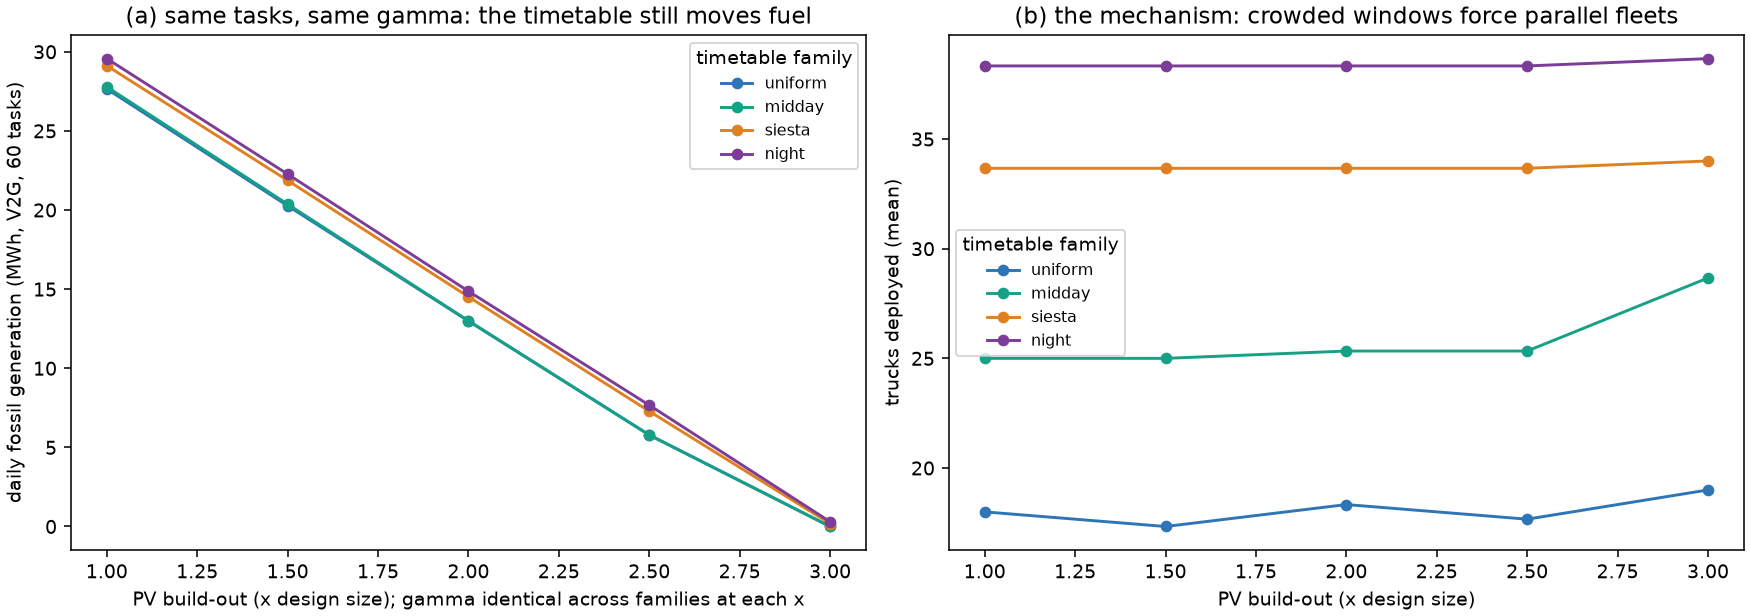
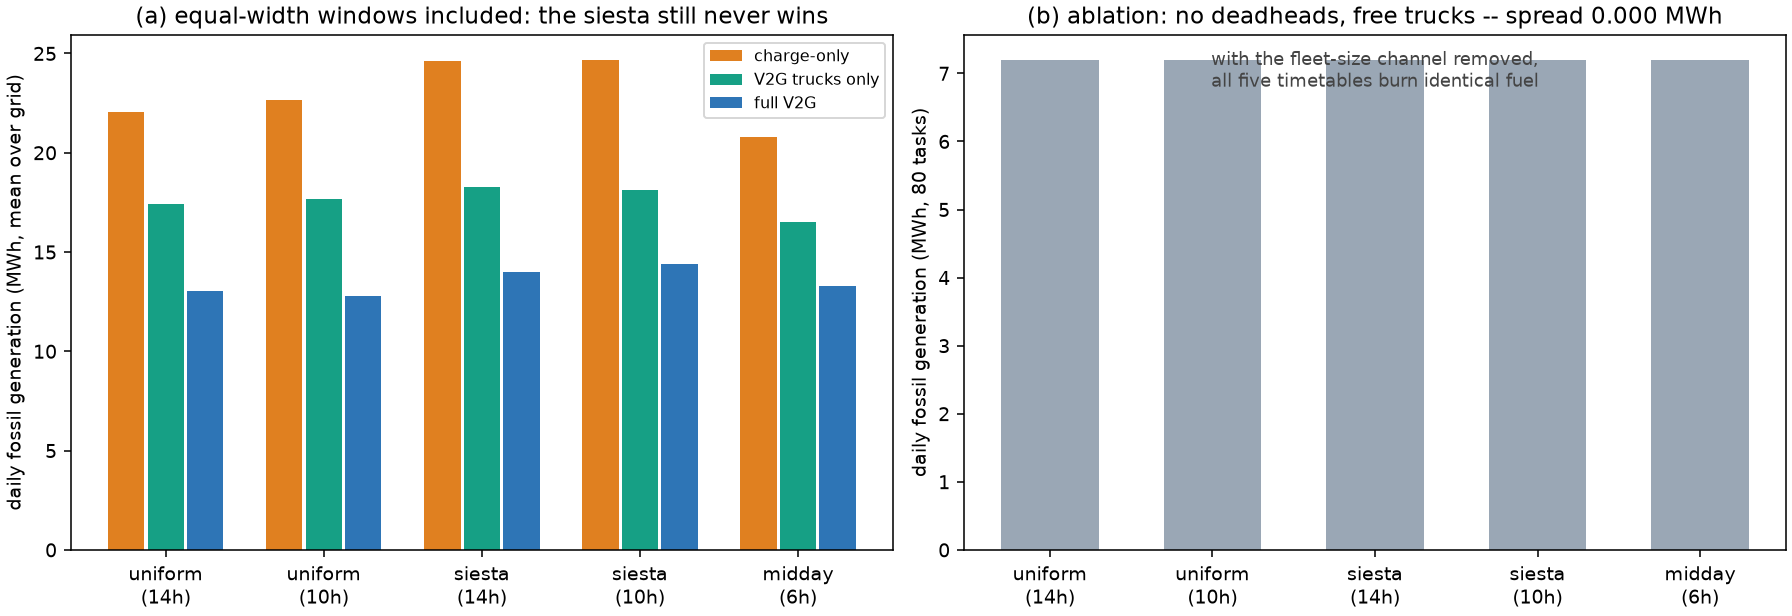
gallery: six new figures from overnight9-10 (SCHED3+THEORY verdict, fixed-asset outage ladder, fuel-floor endurance, four-climate year, fixed-network concavity, committed-schedule stochastic study)

diff --git a/section8_gallery.py b/section8_gallery.py
@@ -1265,46 +1265,255 @@ if pk17:
         "stationary storage are direct substitutes, so the trend toward larger EV "
         "packs mechanically shrinks the dedicated-storage capex a microgrid needs.")
 
-# %% Figure 8.18 -- SCHED: retiming at fixed gamma (the controlled counterexample)
-sc18 = []
-for _p in _glob.glob(os.path.join(ARX, "overnight8_sched_s*.json")):
-    sc18 += json.load(open(_p))
-if sc18:
-    FAMS18 = ["uniform", "midday", "siesta", "night"]
-    FC18 = {"uniform": "#2E75B6", "midday": "#16a085", "siesta": "#e08020", "night": "#7d3c98"}
-    fig, ax = plt.subplots(1, 2, figsize=(12.5, 4.4), constrained_layout=True)
-    pvs18 = sorted({r["pv"] for r in sc18})
-    for f in FAMS18:
-        fu, tk = [], []
-        for pv in pvs18:
-            v = [r for r in sc18 if r["sched"] == f and r["pv"] == pv and r["n_tasks"] == 60
-                 and r["scenario"] == "v2g" and "total" in r]
-            fu.append(float(np.mean([r["g_units"] / 10 for r in v])) if v else np.nan)
-            tk.append(float(np.mean([r["trucks"] for r in v])) if v else np.nan)
-        ax[0].plot(pvs18, fu, "-o", ms=5, color=FC18[f], label=f)
-        ax[1].plot(pvs18, tk, "-o", ms=5, color=FC18[f], label=f)
-    ax[0].set_xlabel("PV build-out (x design size); gamma identical across families at each x")
-    ax[0].set_ylabel("daily fossil generation (MWh, V2G, 60 tasks)")
-    ax[0].set_title("(a) same tasks, same gamma: the timetable still moves fuel")
-    ax[0].legend(fontsize=8, title="timetable family")
-    ax[1].set_xlabel("PV build-out (x design size)")
-    ax[1].set_ylabel("trucks deployed (mean)")
-    ax[1].set_title("(b) the mechanism: crowded windows force parallel fleets")
-    ax[1].legend(fontsize=8, title="timetable family")
+# %% Figure 8.18 -- SCHED3 + THEORY: the retiming verdict, confound-free
+s318 = []
+for _p in _glob.glob(os.path.join(ARX, "overnight10_sched3_s*.json")):
+    s318 += json.load(open(_p))
+th18 = []
+for _p in _glob.glob(os.path.join(ARX, "overnight10_theory_s*.json")):
+    th18 += json.load(open(_p))
+if s318:
+    FAMS18 = ["uniform14", "uniform10", "siesta14", "siesta10", "midday6"]
+    FLAB18 = {"uniform14": "uniform\n(14h)", "uniform10": "uniform\n(10h)",
+              "siesta14": "siesta\n(14h)", "siesta10": "siesta\n(10h)",
+              "midday6": "midday\n(6h)"}
+    SC18 = [("solar", "#e08020", "charge-only"), ("v2g_fleet", "#16a085", "V2G trucks only"),
+            ("v2g", "#2E75B6", "full V2G")]
+    fig, ax = plt.subplots(1, 2, figsize=(12.8, 4.4), constrained_layout=True)
+    W = 0.25
+    for k, (scen, c, lab) in enumerate(SC18):
+        ys = []
+        for f in FAMS18:
+            v = [r["g_units"] / 10 for r in s318 if r["fam"] == f and not np.isfinite(r["kcap"])
+                 and r["scenario"] == scen and r.get("feasible")]
+            ys.append(float(np.mean(v)) if v else np.nan)
+        ax[0].bar([i + (k - 1) * W for i in range(len(FAMS18))], ys, W * 0.92, color=c, label=lab)
+    ax[0].set_xticks(range(len(FAMS18))); ax[0].set_xticklabels([FLAB18[f] for f in FAMS18])
+    ax[0].set_ylabel("daily fossil generation (MWh, mean over grid)")
+    ax[0].set_title("(a) equal-width windows included: the siesta still never wins")
+    ax[0].legend(fontsize=8)
+    if th18:
+        ys = [float(np.mean([r["g_units"] / 10 for r in th18 if r["fam"] == f and r["n_tasks"] == 80]))
+              for f in FAMS18]
+        ax[1].bar(range(len(FAMS18)), ys, 0.6, color="#9aa7b5")
+        ax[1].set_xticks(range(len(FAMS18))); ax[1].set_xticklabels([FLAB18[f] for f in FAMS18])
+        ax[1].set_ylabel("daily fossil generation (MWh, 80 tasks)")
+        sp = max(ys) - min(ys)
+        ax[1].set_title(f"(b) ablation: no deadheads, free trucks -- spread {sp:.3f} MWh")
+        ax[1].text(0.5, 0.9, "with the fleet-size channel removed,\nall five timetables burn identical fuel",
+                   ha="center", transform=ax[1].transAxes, fontsize=9, color="#444")
     finish(fig, "fig_8_18_sched.png")
     GALLERY.append("\n![fig 8.18](fig_8_18_sched.png)\n")
     caption("Figure 8.18",
-        "Retiming at fixed gamma: for each cell, one task set (locations and "
-        "energies fixed) is timetabled four ways -- uniformly over the working "
-        "day, concentrated outside the surplus window (siesta), at night, or "
-        "INSIDE the surplus window (midday) -- so demand, solar, traction, and "
-        "hence gamma are identical across families by construction. (a) Fuel "
-        "still spreads by 5-15% at mid solar: scheduling is a real lever that "
-        "gamma cannot see. Direction: under the cyclic model with storage "
-        "available, the folk prescription of freeing the midday for charging "
-        "INVERTS -- uniform beats siesta at every solar level, because storage "
-        "already captures the surplus while window-crowding roughly doubles the "
-        "fleet (b) and pushes recharging against the demand peaks.")
+        "The retiming verdict with the width confound removed. (a) Five timetable "
+        "families, including a 14-start-hour siesta matching uniform's width, at "
+        "uncapped charging: the siesta never has the lowest fuel in any regime, and "
+        "for storage-poor fleets (charge-only, trucks-only) the winner is the "
+        "midday-concentrated family, the opposite of the folk rule. (b) The "
+        "mechanism, isolated: zeroing deadhead energy and truck cost collapses the "
+        "spread across all five families to numerically zero, so with storage "
+        "available the energy layer is timetable-invariant and every scheduling "
+        "effect flows through fleet size and its deadhead overhead.")
+
+# %% Figure 8.19 -- OUTAGE2: fixed-asset contingency ladder
+o19 = []
+for _p in _glob.glob(os.path.join(ARX, "overnight9_outage2_s*.json")):
+    o19 += json.load(open(_p))
+if o19:
+    DER19 = [1.0, 0.667, 0.333, 0.0]
+    fig, ax = plt.subplots(1, 2, figsize=(12.5, 4.3), constrained_layout=True)
+    for scen, c, lab in (("solar", "#e08020", "charge-only"),
+                         ("v2g_fleet", "#16a085", "V2G trucks only"),
+                         ("v2g", "#2E75B6", "full V2G")):
+        ys = []
+        for d in DER19:
+            rows = [r for r in o19 if abs(r["derate"] - d) < .01 and r["scenario"] == scen]
+            ys.append(100 * sum(1 for r in rows if r.get("feasible")) / max(len(rows), 1))
+        ax[0].plot(range(len(DER19)), ys, "-o", ms=6, color=c, label=lab)
+    ax[0].set_xticks(range(len(DER19)))
+    ax[0].set_xticklabels(["no outage", "1 of 3 lost", "2 of 3 lost", "total loss"])
+    ax[0].set_ylabel("% of instances with a feasible schedule")
+    ax[0].set_title("(a) evening generator outage, assets fixed at normal-day sizing")
+    ax[0].legend(fontsize=8)
+    xs, med, lo, hi = [], [], [], []
+    for d in DER19:
+        v = [100 * (r["total"] - r["stage1_total"]) / r["stage1_total"] for r in o19
+             if abs(r["derate"] - d) < .01 and r["scenario"] == "v2g"
+             and r.get("feasible") and r.get("stage1_total")]
+        if v:
+            xs.append(d); med.append(float(np.median(v)))
+            lo.append(float(np.percentile(v, 10))); hi.append(float(np.percentile(v, 90)))
+    ax[1].fill_between(range(len(xs)), lo, hi, color="#2E75B6", alpha=0.15)
+    ax[1].plot(range(len(xs)), med, "-o", ms=6, color="#2E75B6")
+    ax[1].set_xticks(range(len(xs)))
+    ax[1].set_xticklabels(["no outage", "1 of 3 lost", "2 of 3 lost", "total loss"][:len(xs)])
+    ax[1].set_ylabel("cost increase vs normal day (%, V2G, feasible instances)")
+    ax[1].set_title("(b) the surviving fleet pays almost nothing to ride it out")
+    finish(fig, "fig_8_19_outage2.png")
+    GALLERY.append("\n![fig 8.19](fig_8_19_outage2.png)\n")
+    caption("Figure 8.19",
+        "Fixed-asset contingency ladder: fleets are sized on the normal day (cap "
+        "1.5x the no-fleet peak), then assets are frozen and an evening generator "
+        "outage window (4 or 8 hours) derates capacity. (a) Charge-only and "
+        "trucks-only fleets fail in every instance at any derate; the full V2G "
+        "stack keeps 92% of instances running with one of three generators lost, "
+        "two thirds with two lost, and half through TOTAL loss of generation in "
+        "the window. (b) Where it survives, the re-dispatched day costs at most a "
+        "few percent more. A handful of no-outage cells read infeasible due to "
+        "integer time limits, not the model.")
+
+# %% Figure 8.20 -- ENDUR2: the fuel floor (fixed daily budget)
+e20d = []
+for _p in _glob.glob(os.path.join(ARX, "overnight9_endur_s*.json")):
+    e20d += json.load(open(_p))
+if e20d:
+    import collections as _cl20
+    idx20 = _cl20.defaultdict(list)
+    for r in e20d:
+        idx20[(r["scenario"], r["pv"], r["n_tasks"], r["seed"])].append(r)
+    fig, ax = plt.subplots(figsize=(8.2, 4.4), constrained_layout=True)
+    cells20 = [(1.5, 20), (1.5, 60), (2.5, 20), (2.5, 60)]
+    xt = [f"{pv}x solar\n{n} tasks" for pv, n in cells20]
+    for k, (pv, n) in enumerate(cells20):
+        fmins = [min([r["frac"] for r in idx20[("v2g", pv, n, sd)] if r.get("feasible")], default=np.nan)
+                 for sd in (0, 1, 2)]
+        v = float(np.nanmean(fmins))
+        if np.isfinite(v):
+            ax.bar(k - 0.17, v, 0.32, color="#2E75B6", label="full V2G" if k == 0 else None)
+        else:
+            ax.annotate("V2G > 1.0 too", (k - 0.17, 1.02), ha="center", fontsize=8, color="#2E75B6")
+        ax.bar(k + 0.17, 1.0, 0.32, color="#e08020", alpha=0.55,
+               label="charge-only (censored)" if k == 0 else None)
+        ax.annotate("> 1.0", (k + 0.17, 1.02), ha="center", fontsize=9, color="#b06010")
+    ax.axhline(1.0, ls=":", color="#888", lw=1)
+    ax.text(0.01, 1.01, "no-fleet baseline burn", fontsize=8, color="#666",
+            transform=ax.get_yaxis_transform())
+    ax.set_xticks(range(len(cells20))); ax.set_xticklabels(xt)
+    ax.set_ylabel("minimum feasible daily fuel (fraction of no-fleet baseline)")
+    ax.set_title("the fuel floor: V2G fleets run the base on less fuel than no fleet at all")
+    ax.legend(fontsize=8)
+    finish(fig, "fig_8_20_endurance.png")
+    GALLERY.append("\n![fig 8.20](fig_8_20_endurance.png)\n")
+    caption("Figure 8.20",
+        "Fuel endurance under a hard daily budget. Bars show the smallest budget, "
+        "as a fraction of the no-fleet baseline burn, at which any feasible "
+        "schedule exists. Charge-only fleets exceed 1.0 everywhere sampled: they "
+        "can only ADD load, so electrifying without bidirectionality strictly "
+        "shortens a fuel stock's endurance. Full V2G fleets run the entire base "
+        "on 80% of baseline at modest solar and on as little as 5% at 2.5x solar "
+        "with a small fleet: on a fixed stock, that is 20x the days of autonomy. "
+        "(At 1.5x solar with 60 tasks the fleet's own traction exceeds what the "
+        "surplus can cover, so V2G too needs more than baseline; endurance is an "
+        "endowment story, like everything else in this study.)")
+
+# %% Figure 8.21 -- WCITIES: same array, four skies
+w21 = []
+for _p in _glob.glob(os.path.join(ARX, "overnight9_wcities_s*.json")):
+    w21 += json.load(open(_p))
+if w21:
+    widx21 = {(r["city"], r["date"], r["pv"], r["scenario"]): r for r in w21 if r.get("feasible")}
+    CITIES21 = [("gulf_desert", "Gulf desert"), ("seoul", "Seoul"),
+                ("london", "London"), ("tromso", "Tromso")]
+    fig, ax = plt.subplots(figsize=(8.6, 4.5), constrained_layout=True)
+    for j, (pv, c) in enumerate(((2.0, "#2E75B6"), (3.0, "#16a085"))):
+        xs, mu, p10, p90 = [], [], [], []
+        for i, (key, lab) in enumerate(CITIES21):
+            days = {k[1] for k in widx21 if k[0] == key and k[2] == pv}
+            v = [100 * (widx21[(key, d, pv, "solar")]["total"] - widx21[(key, d, pv, "v2g")]["total"])
+                 / widx21[(key, d, pv, "solar")]["total"]
+                 for d in days if (key, d, pv, "solar") in widx21 and (key, d, pv, "v2g") in widx21]
+            xs.append(i + (j - 0.5) * 0.22); mu.append(np.mean(v))
+            p10.append(np.percentile(v, 10)); p90.append(np.percentile(v, 90))
+        ax.errorbar(xs, mu, yerr=[np.array(mu) - np.array(p10), np.array(p90) - np.array(mu)],
+                    fmt="o", ms=7, capsize=5, color=c, label=f"{pv:g}x panels")
+    ax.set_xticks(range(len(CITIES21))); ax.set_xticklabels([lab for _, lab in CITIES21])
+    ax.axhline(0, color="#888", lw=0.7)
+    ax.set_ylabel("V2G saving vs charge-only (% of daily cost)")
+    ax.set_title("same array, four skies: annual mean and 10th-90th percentile days (2023)")
+    ax.legend(fontsize=8)
+    finish(fig, "fig_8_21_wcities.png")
+    GALLERY.append("\n![fig 8.21](fig_8_21_wcities.png)\n")
+    caption("Figure 8.21",
+        "The 365-day study replayed on four real 2023 climates with the identical "
+        "array (each city's hourly ERA5 irradiance drives the same panels).  "
+        "Mean daily V2G value with 10th-90th percentile day bars: a Gulf desert "
+        "base earns firm value (45% mean, 15% on the 10th-percentile day at 2x; "
+        "75%/53% at 3x), Seoul earns substantial but seasonal value, London "
+        "roughly halves it, and a Tromso-latitude base earns little and nothing "
+        "for much of the year. Climate enters exactly as the endowment gamma "
+        "predicts, day by day.")
+
+# %% Figure 8.22 -- SATFIX2: Theorem 1's concavity under fixed assets
+sf22 = []
+for _p in _glob.glob(os.path.join(ARX, "overnight9_satfix2_s*.json")):
+    sf22 += json.load(open(_p))
+if sf22:
+    fig, ax = plt.subplots(figsize=(7.6, 4.4), constrained_layout=True)
+    for n, c in ((20, "#2E75B6"), (60, "#16a085")):
+        pvs = sorted({r["pv"] for r in sf22})
+        med = [float(np.median([r["g_units"] / 10 for r in sf22 if r["pv"] == pv
+                                and r["n_tasks"] == n and r["scenario"] == "v2g"
+                                and r.get("feasible")]) or np.nan) for pv in pvs]
+        ax.plot(pvs, med, "-o", ms=5, color=c, label=f"{n} tasks (assets fixed at 2.0x sizing)")
+    ax.set_xlabel("PV build-out (x design size)")
+    ax.set_ylabel("daily fossil generation (MWh, V2G)")
+    ax.set_title("fixed fleet and storage: absorption saturates, fuel bends")
+    ax.legend(fontsize=8)
+    finish(fig, "fig_8_22_satfix2.png")
+    GALLERY.append("\n![fig 8.22](fig_8_22_satfix2.png)\n")
+    caption("Figure 8.22",
+        "The diminishing-returns signature of Theorem 1, made visible by fixing "
+        "the residual network: fleets and batteries are sized once at 2.0x solar "
+        "and then held fixed while PV grows. Fuel falls at slope ~1 while the "
+        "fixed storage can still reach unserved deficit, then bends and "
+        "plateaus as the network's deliverability caps bind, exactly the "
+        "concave fixed-profile mechanism (with endogenous assets the optimizer "
+        "keeps buying batteries and the curve stays linear to the floor).")
+
+# %% Figure 8.23 -- STOCH: committing a schedule under a year of weather
+st23 = []
+for _p in _glob.glob(os.path.join(ARX, "overnight10_stoch_s*.json")):
+    st23 += json.load(open(_p))
+if st23:
+    fig, ax = plt.subplots(1, 2, figsize=(12.8, 4.4), constrained_layout=True)
+    for j, pv in enumerate((2.0, 3.0)):
+        ws = {r["date"]: r["total"] for r in st23 if r["kind"] == "ws" and r["pv"] == pv and r.get("feasible")}
+        wsm = float(np.mean(list(ws.values())))
+        cands = sorted({r["cand"] for r in st23 if r["kind"] == "eval"})
+        labs, vals = [], []
+        for cand in ["annual"] + [c for c in cands if c != "annual"]:
+            ev = {r["date"]: r["total"] for r in st23 if r["kind"] == "eval" and r["cand"] == cand
+                  and r["pv"] == pv and r.get("feasible")}
+            days = [d for d in ev if d in ws]
+            labs.append(cand); vals.append(float(np.mean([ev[d] for d in days])))
+        cols = ["#7d3c98" if l == "annual" else "#2E75B6" for l in labs]
+        k_best = int(np.argmin(vals)); cols[k_best] = "#16a085"
+        ax[j].bar(range(len(labs)), vals, color=cols)
+        ax[j].axhline(wsm, ls="--", color="#c0392b", lw=1.4,
+                      label=f"wait-and-see bound (${wsm:,.0f})")
+        ax[j].set_xticks(range(len(labs)))
+        ax[j].set_xticklabels([l.replace("m", "") if l != "annual" else "ann." for l in labs],
+                              fontsize=8)
+        ax[j].set_xlabel("design day used for the committed schedule (month)")
+        ax[j].set_ylabel("expected daily cost over 365 real days ($)")
+        ax[j].set_title(f"({'ab'[j]}) {pv:g}x panels: best commit +"
+                        f"{100 * (min(vals) - wsm) / wsm:.1f}% vs clairvoyance")
+        ax[j].legend(fontsize=8)
+    finish(fig, "fig_8_23_stoch.png")
+    GALLERY.append("\n![fig 8.23](fig_8_23_stoch.png)\n")
+    caption("Figure 8.23",
+        "Committing schedules under uncertain weather: the truck routes, their "
+        "charging plans, and the battery count are fixed on a candidate design "
+        "day; on each of the 365 real days only the stationary battery dispatch "
+        "and fossil generation re-optimize. Bars are expected daily cost per "
+        "design-day candidate (teal = best; purple = the annual-mean day); the "
+        "dashed line is the wait-and-see bound (full foresight, re-optimized "
+        "daily). The best committed schedule lands within 5.6% (2x) and 9.7% "
+        "(3x) of clairvoyance, so the deterministic backbone plus trivial "
+        "recourse is nearly optimal; but the CHOICE of design day carries real "
+        "risk: the annual-mean day gives +19%/+12%, and a winter design day up "
+        "to +48%/+98%. Summer-designed schedules commit generous storage and "
+        "charging plans that winter days simply scale back.")
 
 # %% Parameter provenance -- a source for every empirical anchor
 PROV = [

diff --git a/results/figures/GALLERY.md b/results/figures/GALLERY.md
@@ -163,7 +163,32 @@ Read top to bottom: this is the narrative order of the computational study.
 
 ![fig 8.18](fig_8_18_sched.png)
 
-**Figure 8.18.** Retiming at fixed gamma: for each cell, one task set (locations and energies fixed) is timetabled four ways -- uniformly over the working day, concentrated outside the surplus window (siesta), at night, or INSIDE the surplus window (midday) -- so demand, solar, traction, and hence gamma are identical across families by construction. (a) Fuel still spreads by 5-15% at mid solar: scheduling is a real lever that gamma cannot see. Direction: under the cyclic model with storage available, the folk prescription of freeing the midday for charging INVERTS -- uniform beats siesta at every solar level, because storage already captures the surplus while window-crowding roughly doubles the fleet (b) and pushes recharging against the demand peaks.
+**Figure 8.18.** The retiming verdict with the width confound removed. (a) Five timetable families, including a 14-start-hour siesta matching uniform's width, at uncapped charging: the siesta never has the lowest fuel in any regime, and for storage-poor fleets (charge-only, trucks-only) the winner is the midday-concentrated family, the opposite of the folk rule. (b) The mechanism, isolated: zeroing deadhead energy and truck cost collapses the spread across all five families to numerically zero, so with storage available the energy layer is timetable-invariant and every scheduling effect flows through fleet size and its deadhead overhead.
+
+
+![fig 8.19](fig_8_19_outage2.png)
+
+**Figure 8.19.** Fixed-asset contingency ladder: fleets are sized on the normal day (cap 1.5x the no-fleet peak), then assets are frozen and an evening generator outage window (4 or 8 hours) derates capacity. (a) Charge-only and trucks-only fleets fail in every instance at any derate; the full V2G stack keeps 92% of instances running with one of three generators lost, two thirds with two lost, and half through TOTAL loss of generation in the window. (b) Where it survives, the re-dispatched day costs at most a few percent more. A handful of no-outage cells read infeasible due to integer time limits, not the model.
+
+
+![fig 8.20](fig_8_20_endurance.png)
+
+**Figure 8.20.** Fuel endurance under a hard daily budget. Bars show the smallest budget, as a fraction of the no-fleet baseline burn, at which any feasible schedule exists. Charge-only fleets exceed 1.0 everywhere sampled: they can only ADD load, so electrifying without bidirectionality strictly shortens a fuel stock's endurance. Full V2G fleets run the entire base on 80% of baseline at modest solar and on as little as 5% at 2.5x solar with a small fleet: on a fixed stock, that is 20x the days of autonomy. (At 1.5x solar with 60 tasks the fleet's own traction exceeds what the surplus can cover, so V2G too needs more than baseline; endurance is an endowment story, like everything else in this study.)
+
+
+![fig 8.21](fig_8_21_wcities.png)
+
+**Figure 8.21.** The 365-day study replayed on four real 2023 climates with the identical array (each city's hourly ERA5 irradiance drives the same panels).  Mean daily V2G value with 10th-90th percentile day bars: a Gulf desert base earns firm value (45% mean, 15% on the 10th-percentile day at 2x; 75%/53% at 3x), Seoul earns substantial but seasonal value, London roughly halves it, and a Tromso-latitude base earns little and nothing for much of the year. Climate enters exactly as the endowment gamma predicts, day by day.
+
+
+![fig 8.22](fig_8_22_satfix2.png)
+
+**Figure 8.22.** The diminishing-returns signature of Theorem 1, made visible by fixing the residual network: fleets and batteries are sized once at 2.0x solar and then held fixed while PV grows. Fuel falls at slope ~1 while the fixed storage can still reach unserved deficit, then bends and plateaus as the network's deliverability caps bind, exactly the concave fixed-profile mechanism (with endogenous assets the optimizer keeps buying batteries and the curve stays linear to the floor).
+
+
+![fig 8.23](fig_8_23_stoch.png)
+
+**Figure 8.23.** Committing schedules under uncertain weather: the truck routes, their charging plans, and the battery count are fixed on a candidate design day; on each of the 365 real days only the stationary battery dispatch and fossil generation re-optimize. Bars are expected daily cost per design-day candidate (teal = best; purple = the annual-mean day); the dashed line is the wait-and-see bound (full foresight, re-optimized daily). The best committed schedule lands within 5.6% (2x) and 9.7% (3x) of clairvoyance, so the deterministic backbone plus trivial recourse is nearly optimal; but the CHOICE of design day carries real risk: the annual-mean day gives +19%/+12%, and a winter design day up to +48%/+98%. Summer-designed schedules commit generous storage and charging plans that winter days simply scale back.
 
 **Parameter provenance** -- every empirical anchor used in this study:
 